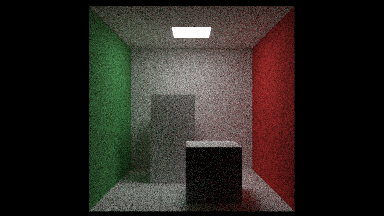
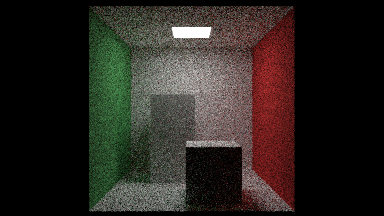
Introduce PDF

Changed region(s): [[0.2188, 0.0278, 0.7812, 1.0]]

diff --git a/code/Main.cs b/code/Main.cs
@@ -20,17 +20,21 @@ namespace RayTracingInOneWeekend
                 return background;
 
             Ray scattered = new Ray();
-            scattered.time = 0.0f;
-            Vector3 attenuation = new Vector3();
+            // scattered.time = 0.0f;
             Material mat = hitRecord.material;
             Vector3 emitted = mat.emit(hitRecord.uv, hitRecord.point);
-            if (!mat.scatter(ray, hitRecord, ref attenuation, ref scattered))
+            float pdf = 0.0f;
+            // Vector3 attenuation = new Vector3(0.0f);
+            Vector3 albedo = new Vector3(0.0f);
+
+            if (!mat.scatter(ray, hitRecord, ref albedo, ref scattered, ref pdf))
                 return emitted;
             
-            return emitted + attenuation * rayColor(scattered, background, world, depth - 1);
+            float scatteredPdf = mat.scatterPdf(ray, hitRecord, scattered);
+            return emitted + albedo * scatteredPdf * rayColor(scattered, background, world, depth - 1) / pdf;
         }
 
-        static HittableList createScene()
+        static HittableList createScene(out Camera camera, float aspect)
         {
             HittableList world = new HittableList();
 
@@ -50,6 +54,22 @@ namespace RayTracingInOneWeekend
             world.add(new Box(new Vector3(130.0f, 0.0f, 65.0f), new Vector3(295.0f, 165.0f, 230.0f), white));
             world.add(new Box(new Vector3(265.0f, 0.0f, 295.0f), new Vector3(430.0f, 330.0f, 460.0f), white));
 
+            Vector3 lookFrom = new Vector3(278.0f, 278.0f, -800.0f);
+            Vector3 lookAt = new Vector3(278.0f, 278.0f, 0.0f);
+            float focusDistance = 10.0f;
+            float aperture = 0.0f;
+            float fov = 40.0f;
+            camera = new Camera(
+                lookFrom,
+                lookAt,
+                Vector3.UnitY,
+                fov,
+                aspect,
+                aperture,
+                focusDistance,
+                0.0f,
+                1.0f);
+
             return world;
         }
 
@@ -58,31 +78,20 @@ namespace RayTracingInOneWeekend
             const float aspectRatio = 16.0f / 9.0f;
             const int imageWidth = 384;
             const int imageHeight = (int)(imageWidth / aspectRatio);
+            // const int imageWidth = 512;
+            // const int imageHeight = 512;
+            // const float aspectRatio = (float)imageWidth / imageHeight;
             const int samplesPerPixel = 500;
-            const int maxDepth = 30;
+            const int maxDepth = 50;
 
             const int component = 3;
             const int stride = component * imageWidth;
 
             byte[] imageBuffer = new byte[stride * imageHeight];
 
-            HittableList world = createScene();
+            Camera camera;
 
-            Vector3 lookFrom = new Vector3(278.0f, 278.0f, -800.0f);
-            Vector3 lookAt = new Vector3(278.0f, 278.0f, 0.0f);
-            float focusDistance = 10.0f;
-            float aperture = 0.0f;
-            float fov = 40.0f;
-            Camera camera = new Camera(
-                lookFrom,
-                lookAt,
-                Vector3.UnitY,
-                fov,
-                aspectRatio,
-                aperture,
-                focusDistance,
-                0.0f,
-                1.0f);
+            HittableList world = createScene(out camera, aspectRatio);
 
             DateTime start = DateTime.Now;
             Console.WriteLine("Start at: {0}", start.ToString("F"));

diff --git a/code/Lambertian.cs b/code/Lambertian.cs
@@ -1,5 +1,6 @@
 using System;
 using System.Numerics;
+using System.Diagnostics;
 
 namespace RayTracingInOneWeekend {
 
@@ -10,12 +11,21 @@ namespace RayTracingInOneWeekend {
             this.albedo = albedo;
         }
 
-        public override bool scatter(in Ray ray, in HitRecord record, ref Vector3 attenuation, ref Ray scattered)
+        public override bool scatter(in Ray ray, in HitRecord record, ref Vector3 albedo, ref Ray scattered, ref float pdf)
         {
+            Vector3 direction = Utility.RandomUnitVectorInHemisphere(record.normal);
             scattered.origin = record.point;
-            scattered.direction = record.normal + Utility.RandomUnitVector();
-            attenuation = albedo.value(record.uv, record.point);
+            scattered.direction = direction;
+            scattered.time = ray.time;
+            albedo = this.albedo.value(record.uv, record.point);
+            pdf = 0.5f / Utility.Pi;
             return true;
+        }
+
+        public override float scatterPdf(in Ray ray, in HitRecord record, in Ray scattered)
+        {
+            float cosine = Vector3.Dot(record.normal, Vector3.Normalize(scattered.direction));
+            return Math.Max(cosine / Utility.Pi, 0.0f);
         }
 
         public override Vector3 emit(in Vector2 uv, in Vector3 point)

diff --git a/code/Metal.cs b/code/Metal.cs
@@ -11,13 +11,13 @@ namespace RayTracingInOneWeekend {
             this.fuzziness = fuzziness;
         }
 
-        public override bool scatter(in Ray ray, in HitRecord record, ref Vector3 attenuation, ref Ray scattered)
+        public override bool scatter(in Ray ray, in HitRecord record, ref Vector3 albedo, ref Ray scattered, ref float pdf)
         {
             Vector3 reflected = Vector3.Reflect(Vector3.Normalize(ray.direction), record.normal);
             scattered.origin = record.point;
             scattered.direction = reflected + fuzziness * Utility.RandomUnitVector();
             scattered.time = ray.time;
-            attenuation = albedo;
+            albedo = this.albedo;
             return Vector3.Dot(scattered.direction, record.normal) > 0.0f;
         }
 

diff --git a/code/Dielectric.cs b/code/Dielectric.cs
@@ -10,9 +10,9 @@ namespace RayTracingInOneWeekend {
             this.reflectionPower = reflectionPower;
         }
 
-        public override bool scatter(in Ray ray, in HitRecord record, ref Vector3 attenuation, ref Ray scattered)
+        public override bool scatter(in Ray ray, in HitRecord record, ref Vector3 albedo, ref Ray scattered)
         {
-            attenuation = Vector3.One;
+            albedo = Vector3.One;
             float factor = record.frontFace ? 1.0f / reflectionPower : reflectionPower;
             Vector3 unitDirection =  Vector3.Normalize(ray.direction);
 

diff --git a/code/Material.cs b/code/Material.cs
@@ -5,8 +5,8 @@ namespace RayTracingInOneWeekend {
 
     public abstract class Material
     {
-        public abstract bool scatter(in Ray ray, in HitRecord record, ref Vector3 attenuation, ref Ray scattered);
-
+        public abstract bool scatter(in Ray ray, in HitRecord record, ref Vector3 albedo, ref Ray scattered, ref float pdf);
+        public virtual float scatterPdf(in Ray ray, in HitRecord record, in Ray scattered) { return 0.0f; }
         public abstract Vector3 emit(in Vector2 uv, in Vector3 point);
     }
 

diff --git a/code/Hittable.cs b/code/Hittable.cs
@@ -14,9 +14,8 @@ namespace RayTracingInOneWeekend {
 
         public void setFaceNormal(in Ray ray, in Vector3 outwardNormal)
         {
-            int sign = -Math.Sign(Vector3.Dot(ray.direction, outwardNormal));
-            frontFace = sign > 0; 
-            normal = sign * outwardNormal;
+            frontFace = -Math.Sign(Vector3.Dot(ray.direction, outwardNormal)) > 0;
+            normal = frontFace ? outwardNormal : -outwardNormal;
         }
     }
 

diff --git a/code/Utility.cs b/code/Utility.cs
@@ -65,8 +65,8 @@ namespace RayTracingInOneWeekend {
         public static Vector3 RandomUnitVectorInHemisphere(in Vector3 normal)
         {
             Vector3 ret = RandomUnitVector();
-            float flip = Math.Sign(Vector3.Dot(normal, ret));
-            return flip * ret;
+            bool flip = Vector3.Dot(normal, ret) < 0.0f;
+            return flip ? -ret : ret;
         }
 
         public static Vector3 RandomColor()

diff --git a/code/DiffuseLight.cs b/code/DiffuseLight.cs
@@ -10,7 +10,7 @@ namespace RayTracingInOneWeekend {
             this.emission = emission;
         }
 
-        public override bool scatter(in Ray ray, in HitRecord record, ref Vector3 attenuation, ref Ray scattered)
+        public override bool scatter(in Ray ray, in HitRecord record, ref Vector3 albedo, ref Ray scattered, ref float pdf)
         {
             return false;
         }
